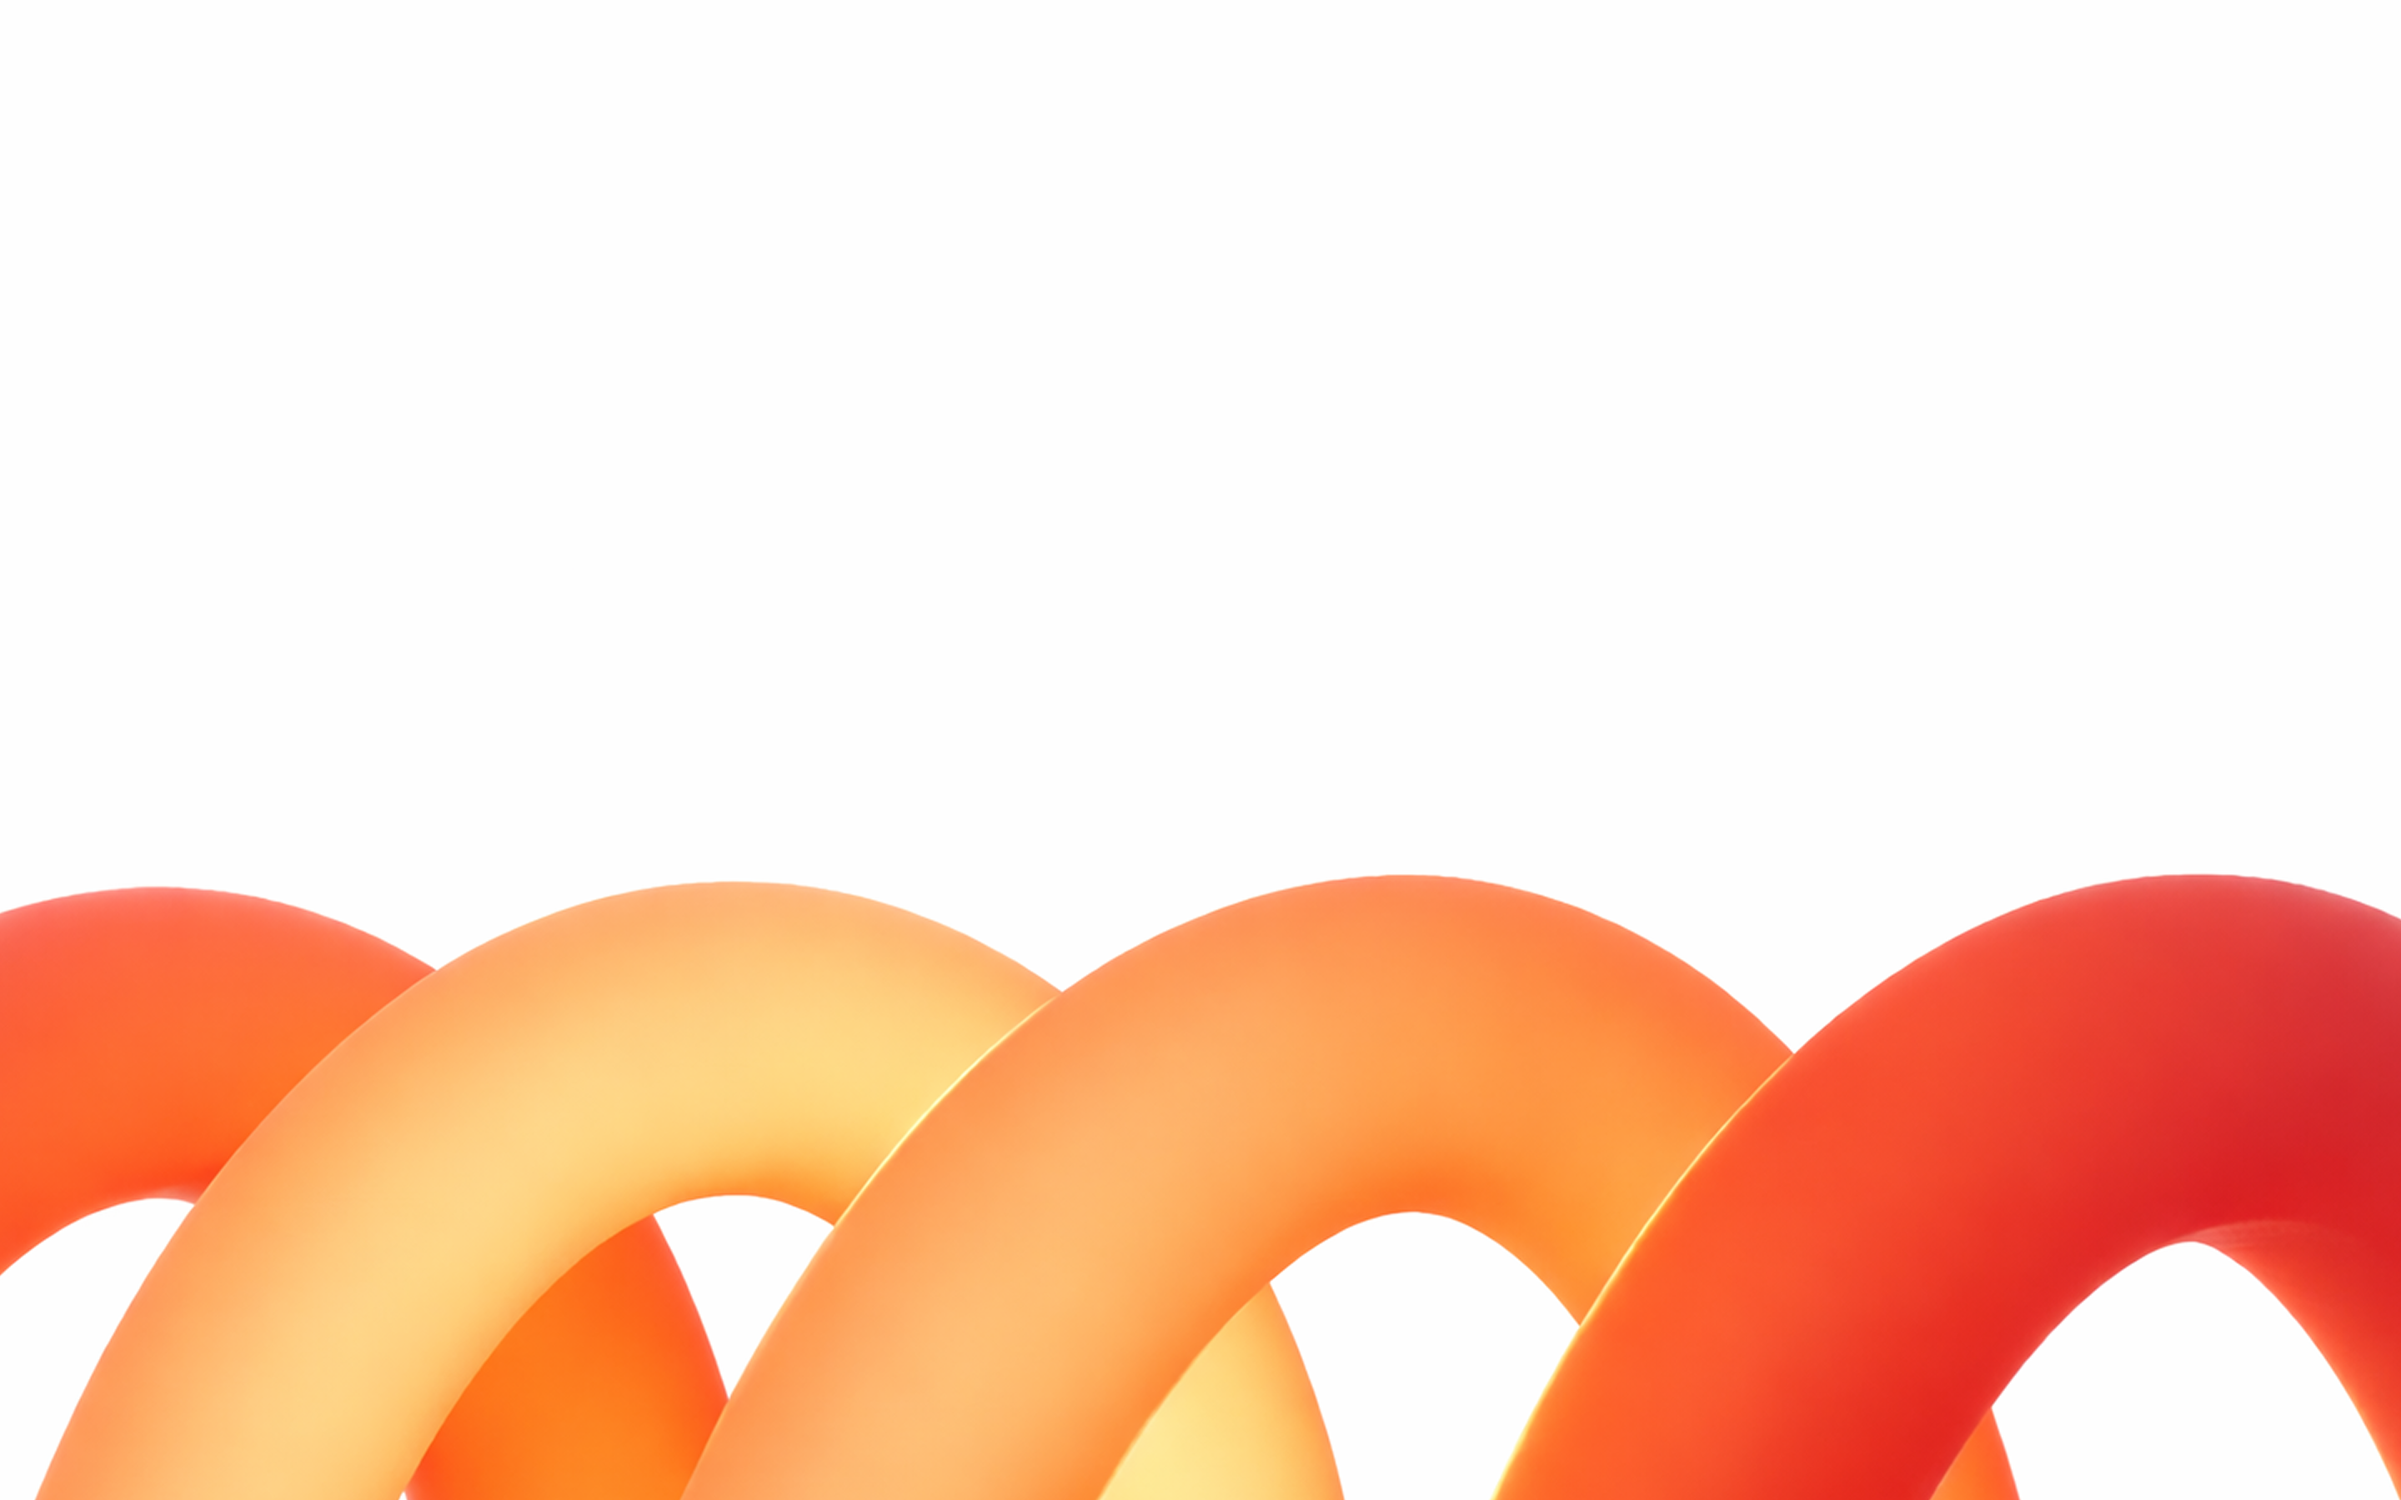
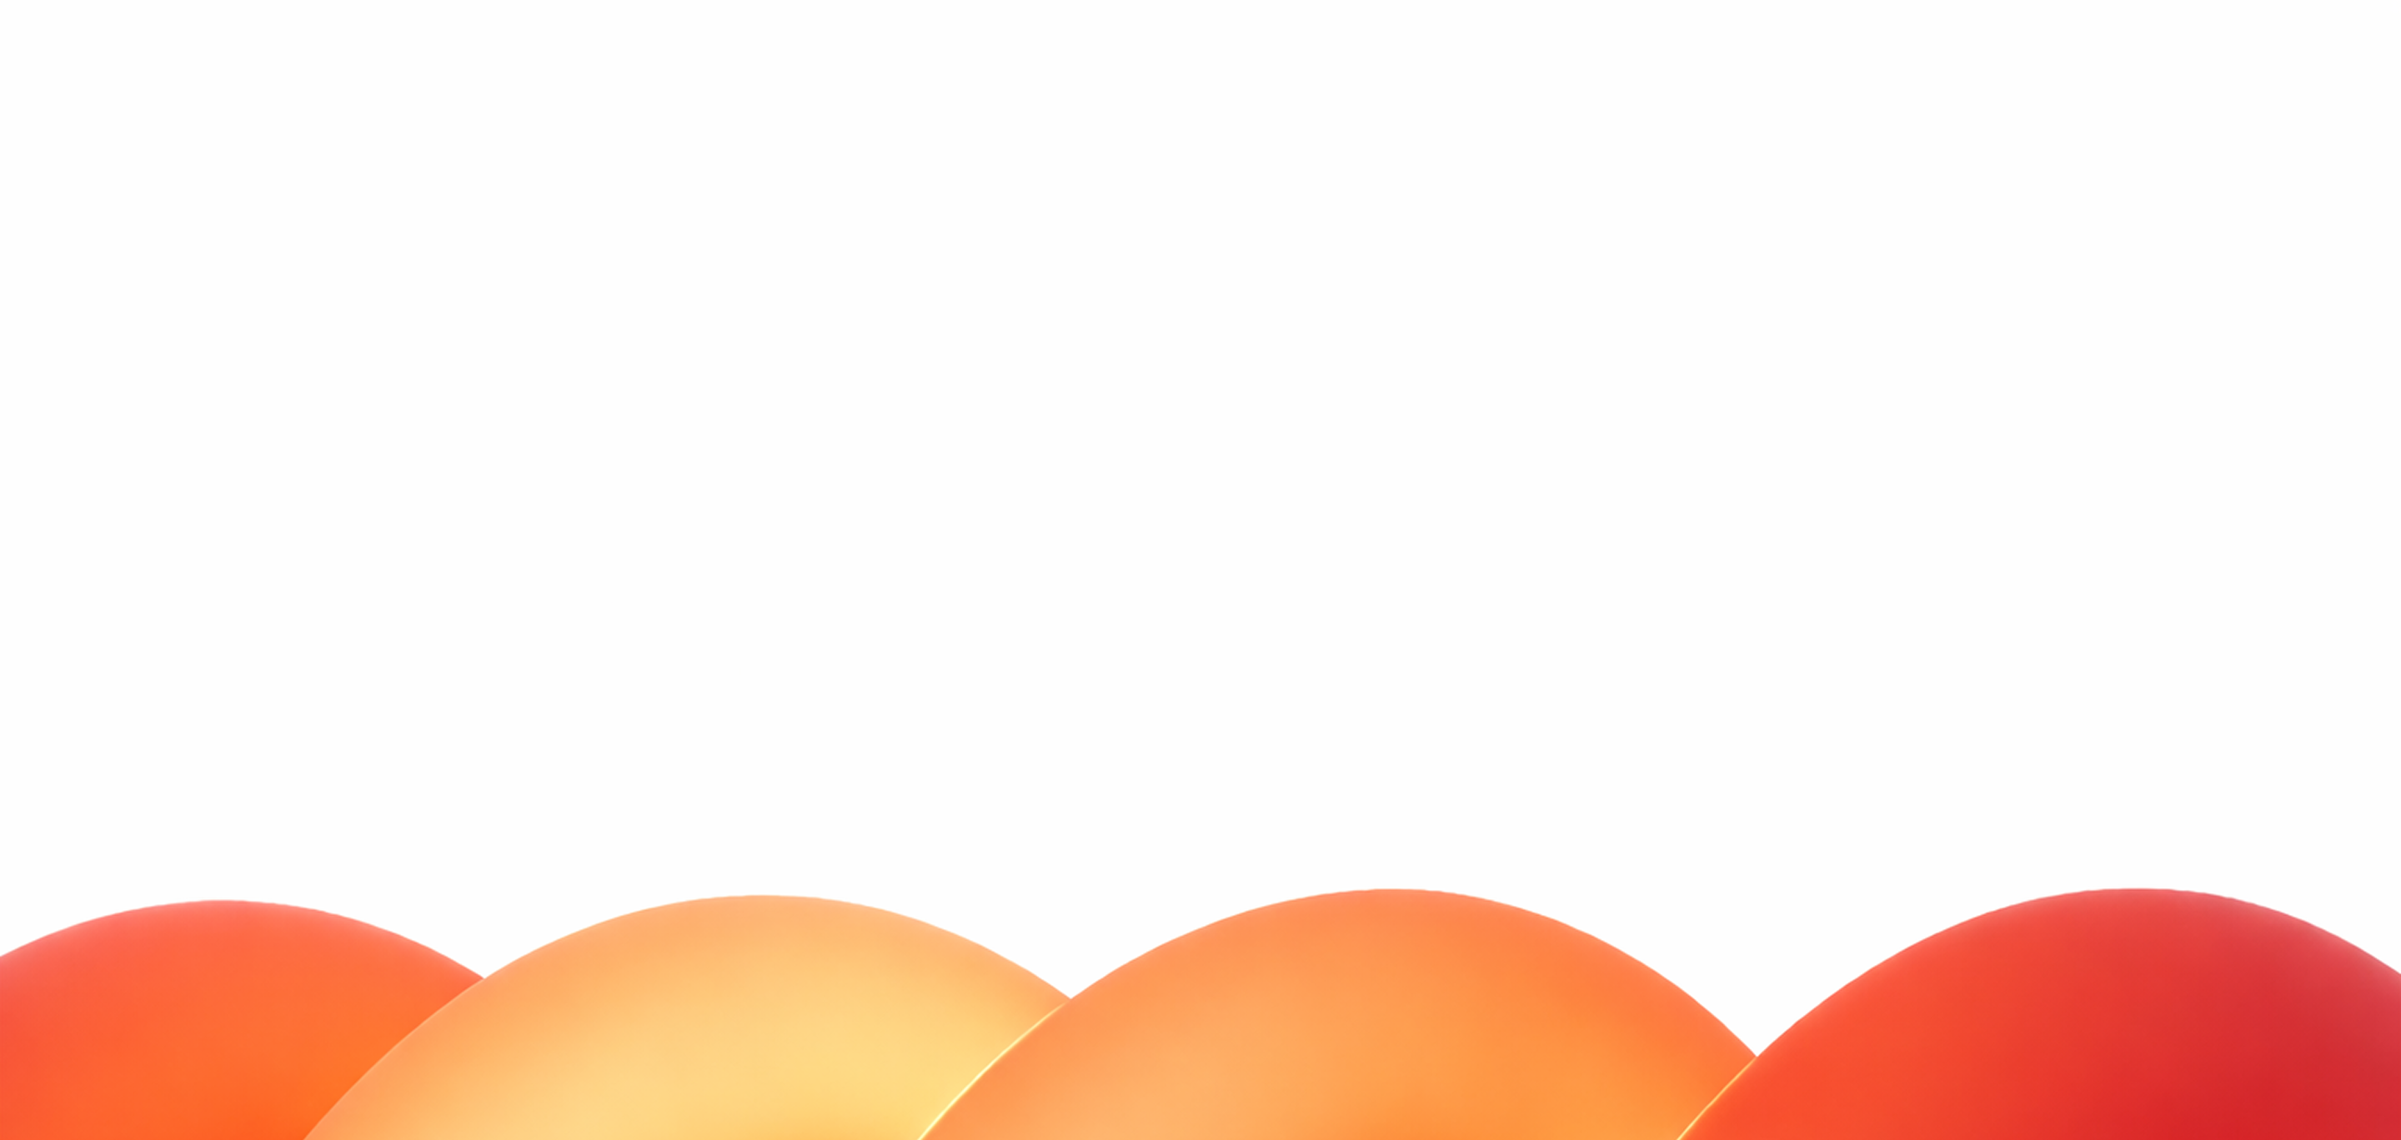
Position hero BG image with an exact 82px gap from CTA

diff --git a/styles.css b/styles.css
@@ -332,20 +332,20 @@ nav .logo {
 }
 
 .hero-bg-image {
-  position: absolute;
-  top: 0;
-  left: 0;
+  margin-top: 82px;
   width: 100%;
-  height: 100%;
+  display: flex;
+  justify-content: center;
   z-index: 0;
   pointer-events: none;
 }
 
 .hero-bg-image img {
   width: 100%;
-  height: 100%;
-  object-fit: cover;
-  object-position: bottom;
+  max-width: 1440px;
+  height: auto;
+  object-fit: contain;
+  object-position: top;
 }
 
 #particle-canvas {
